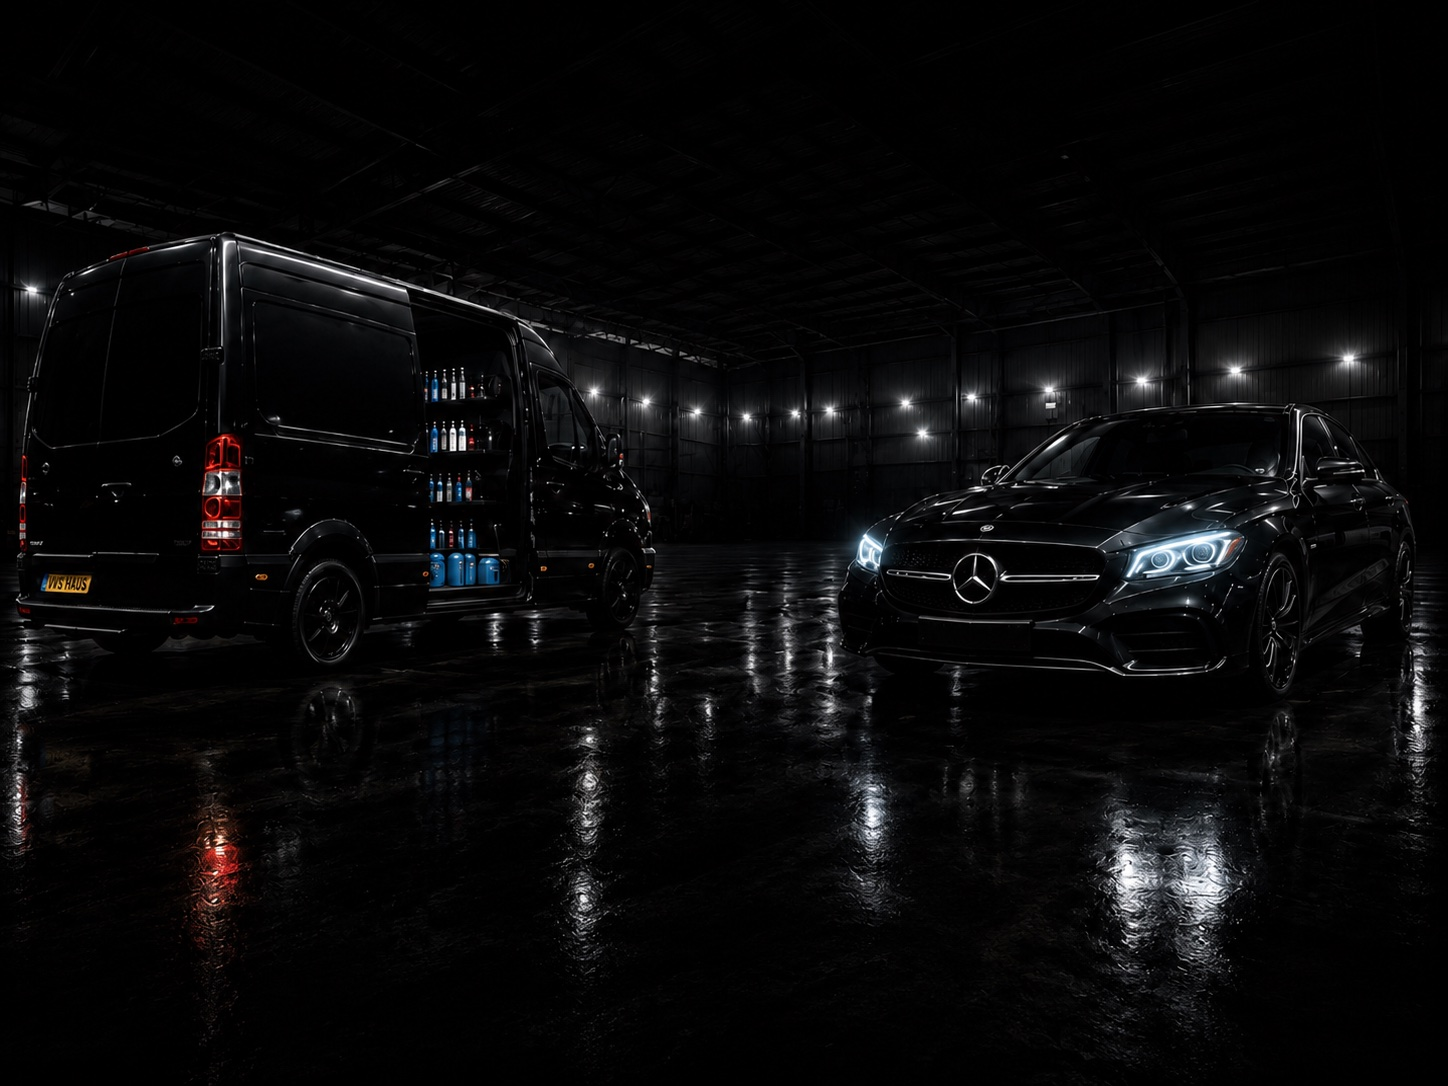
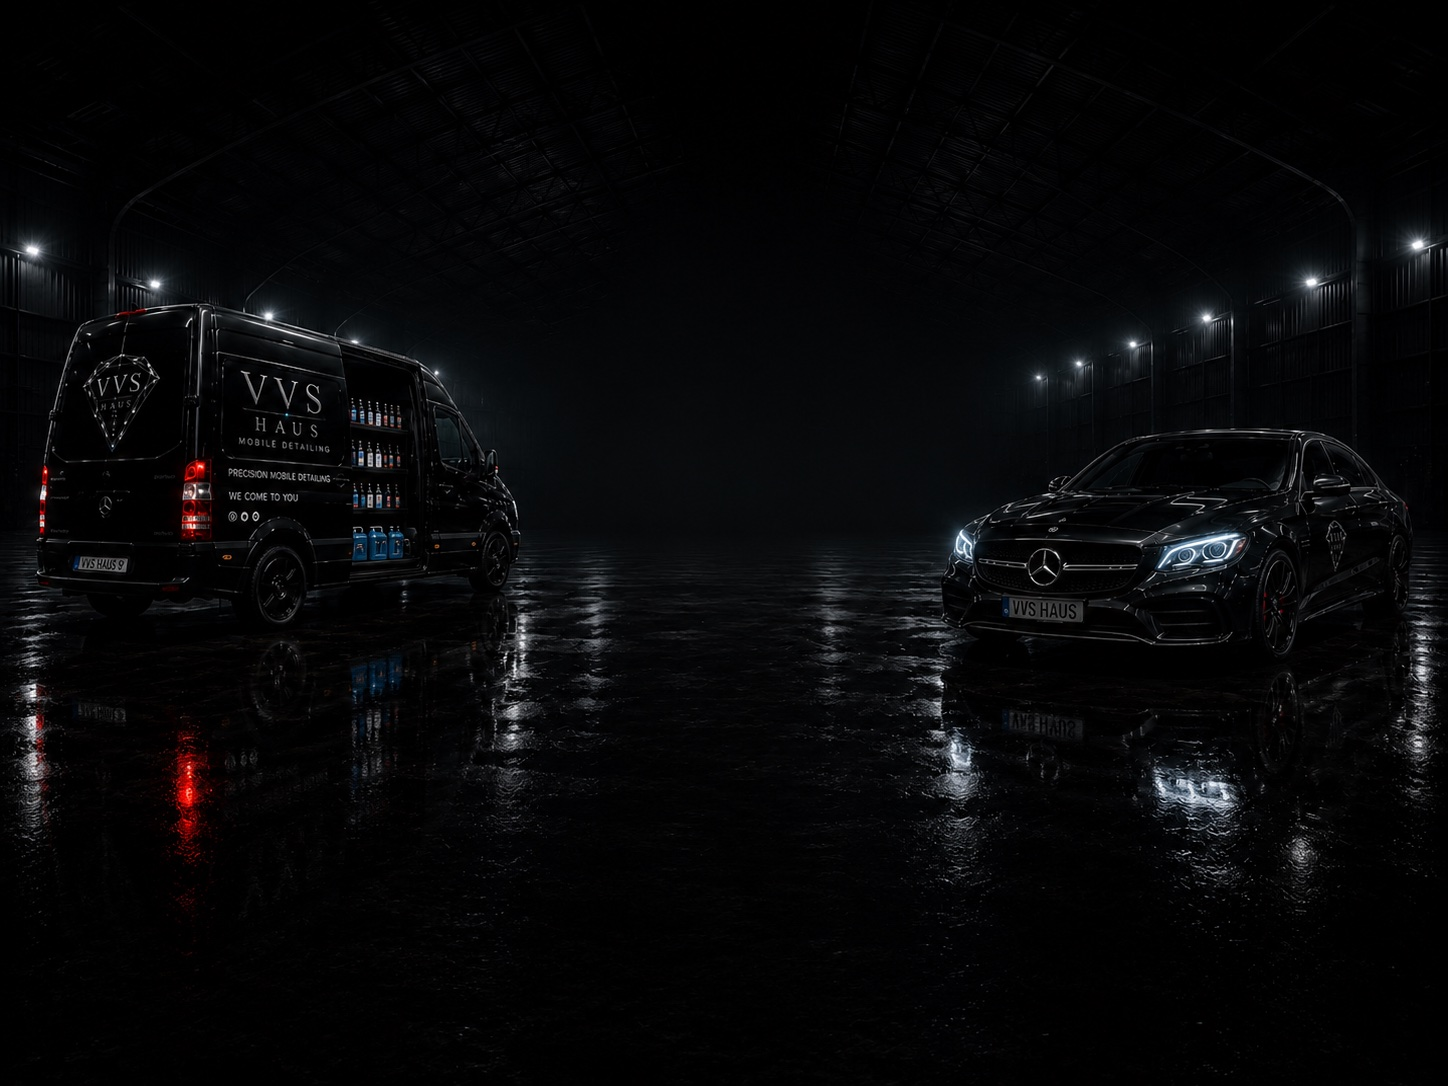
Build home page hero

diff --git a/src/pages/Home.jsx b/src/pages/Home.jsx
@@ -2,9 +2,8 @@ import { motion } from 'framer-motion'
 import { ChevronDown, ChevronRight, ShieldCheck, Sparkles, Truck, Wrench } from 'lucide-react'
 import { Link } from 'react-router-dom'
 
-const vanImage = '/assets/images/van-with-logo.jpg'
-const vehicleImage = '/assets/images/mercedes-back.jpg'
-const diamondLogo = '/assets/logos/logo-diamond-transparent.png'
+const heroBackground = '/assets/images/new-home-wallpaper.jpg'
+const heroLogo = '/assets/logos/logo.png'
 
 const featureStrip = [
   {
@@ -52,11 +51,19 @@ const item = {
 function Home() {
   return (
     <section className="relative left-1/2 h-svh min-h-[700px] w-screen -translate-x-1/2 overflow-hidden bg-[#050505] px-5 pb-4 pt-24 text-white sm:px-8 lg:min-h-0 lg:px-12">
-      <div className="absolute inset-0 bg-[linear-gradient(180deg,#050505_0%,#111111_46%,#050505_100%)]" />
-      <div className="absolute inset-0 bg-[radial-gradient(circle_at_50%_30%,rgba(0,217,255,0.12),transparent_17rem)]" />
-      <div className="absolute inset-0 bg-[linear-gradient(90deg,rgba(5,5,5,0.88)_0%,rgba(5,5,5,0.35)_28%,rgba(5,5,5,0.18)_50%,rgba(5,5,5,0.42)_72%,rgba(5,5,5,0.9)_100%)]" />
-      <div className="absolute inset-x-0 top-0 h-44 bg-gradient-to-b from-[#050505] to-transparent" />
-      <div className="absolute inset-x-0 bottom-0 h-64 bg-gradient-to-t from-[#050505] via-[#050505]/78 to-transparent" />
+      <motion.img
+        alt="VVS Haus cinematic mobile detailing background"
+        animate={{ opacity: 1, scale: 1.025 }}
+        className="absolute inset-0 h-full w-full object-cover object-[center_56%] brightness-[1.3] contrast-[1.08]"
+        initial={{ opacity: 0, scale: 1.06 }}
+        src={heroBackground}
+        transition={{ duration: 1.3, ease: 'easeOut' }}
+      />
+      <div className="absolute inset-0 bg-[linear-gradient(180deg,rgba(5,5,5,0.34)_0%,rgba(5,5,5,0.06)_34%,rgba(5,5,5,0.1)_60%,rgba(5,5,5,0.62)_100%)]" />
+      <div className="absolute inset-0 bg-[radial-gradient(ellipse_at_50%_31%,rgba(0,217,255,0.055),transparent_18rem)]" />
+      <div className="absolute inset-0 bg-[linear-gradient(90deg,rgba(5,5,5,0.38)_0%,rgba(5,5,5,0.08)_28%,rgba(5,5,5,0.04)_50%,rgba(5,5,5,0.09)_72%,rgba(5,5,5,0.44)_100%)]" />
+      <div className="absolute inset-x-0 top-0 h-44 bg-gradient-to-b from-[#050505]/70 to-transparent" />
+      <div className="absolute inset-x-0 bottom-0 h-64 bg-gradient-to-t from-[#050505]/82 via-[#050505]/42 to-transparent" />
       <motion.div
         aria-hidden="true"
         animate={{ x: ['-120%', '120%'], opacity: [0, 0.32, 0] }}
@@ -65,71 +72,47 @@ function Home() {
         transition={{ delay: 1.1, duration: 4.8, ease: 'easeInOut', repeat: Infinity, repeatDelay: 4 }}
       />
 
-      <motion.img
-        alt="VVS Haus branded mobile detailing van"
-        animate={{ opacity: 0.74, x: 0, scale: 1, y: [0, -5, 0] }}
-        className="absolute bottom-[8.6rem] left-[-9.5rem] hidden w-[46rem] max-w-none object-contain shadow-[0_34px_120px_rgba(0,0,0,0.7)] xl:block 2xl:left-[-4.5rem] 2xl:w-[52rem]"
-        initial={{ opacity: 0, x: -46, scale: 0.98 }}
-        src={vanImage}
-        transition={{
-          duration: 1.15,
-          ease: 'easeOut',
-          y: { delay: 1.2, duration: 8.5, ease: 'easeInOut', repeat: Infinity },
-        }}
-      />
-
-      <motion.img
-        alt="Premium Mercedes vehicle detailed by VVS Haus"
-        animate={{ opacity: 0.76, x: 0, scale: 1, y: [0, -4, 0] }}
-        className="absolute bottom-[8.6rem] right-[-10.5rem] hidden w-[47rem] max-w-none object-contain shadow-[0_34px_120px_rgba(0,0,0,0.72)] lg:block 2xl:right-[-4rem] 2xl:w-[53rem]"
-        initial={{ opacity: 0, x: 46, scale: 0.98 }}
-        src={vehicleImage}
-        transition={{
-          duration: 1.15,
-          ease: 'easeOut',
-          y: { delay: 1.45, duration: 7.8, ease: 'easeInOut', repeat: Infinity },
-        }}
-      />
-
       <motion.div
         animate="visible"
         className="relative z-10 mx-auto flex h-full max-w-[92rem] flex-col items-center justify-end text-center"
         initial="hidden"
         variants={container}
       >
-        <div className="flex w-full flex-1 flex-col items-center justify-center pb-1 pt-2 lg:pt-8">
+        <div className="flex w-full flex-1 flex-col items-center justify-center pb-1 pt-2 lg:mt-10 lg:pt-0">
           <motion.div
-            className="relative mb-0 flex h-[13.5rem] w-[13.5rem] items-center justify-center overflow-hidden sm:h-[18rem] sm:w-[18rem] lg:h-[23rem] lg:w-[23rem] 2xl:h-[25rem] 2xl:w-[25rem]"
+            className="relative -mb-6 flex h-[16.5rem] w-[16.5rem] items-center justify-center overflow-visible sm:-mb-9 sm:h-[23rem] sm:w-[23rem] lg:-mb-16 lg:h-[34rem] lg:w-[34rem] 2xl:-mb-20 2xl:h-[36rem] 2xl:w-[36rem]"
             variants={item}
           >
-            <motion.img
-              alt="VVS Haus diamond"
-              animate={{
-                filter: [
-                  'drop-shadow(0 0 18px rgba(0,217,255,0.7))',
-                  'drop-shadow(0 0 28px rgba(0,217,255,0.82))',
-                  'drop-shadow(0 0 18px rgba(0,217,255,0.7))',
-                ],
-                y: [0, -7, 0],
-              }}
-              className="relative h-full w-full object-contain drop-shadow-[0_0_18px_rgba(0,217,255,0.7)]"
-              src={diamondLogo}
-              transition={{
-                filter: { duration: 4.8, ease: 'easeInOut', repeat: Infinity },
-                y: { duration: 5.8, ease: 'easeInOut', repeat: Infinity },
-              }}
-            />
-            <motion.span
-              aria-hidden="true"
-              animate={{ opacity: [0, 1, 0, 0, 1, 0], x: ['-145%', '145%', '145%', '-145%', '-145%', '145%'] }}
-              className="pointer-events-none absolute inset-y-10 w-1/3 rotate-12 bg-gradient-to-r from-transparent via-white/35 to-transparent blur-sm"
-              initial={{ x: '-145%' }}
-              transition={{ delay: 1.5, duration: 6.8, ease: 'easeInOut', repeat: Infinity }}
-            />
+            <div className="relative h-full w-full translate-y-9 overflow-hidden sm:translate-y-12 lg:translate-y-16">
+              <motion.img
+                alt="VVS Haus diamond"
+                animate={{
+                  filter: [
+                    'drop-shadow(0 0 14px rgba(0,217,255,0.58))',
+                    'drop-shadow(0 0 22px rgba(0,217,255,0.72))',
+                    'drop-shadow(0 0 14px rgba(0,217,255,0.58))',
+                  ],
+                  y: [0, -7, 0],
+                }}
+                className="relative h-full w-full object-contain drop-shadow-[0_0_14px_rgba(0,217,255,0.58)]"
+                src={heroLogo}
+                transition={{
+                  filter: { duration: 4.8, ease: 'easeInOut', repeat: Infinity },
+                  y: { duration: 5.8, ease: 'easeInOut', repeat: Infinity },
+                }}
+              />
+              <motion.span
+                aria-hidden="true"
+                animate={{ opacity: [0, 1, 0, 0, 1, 0], x: ['-145%', '145%', '145%', '-145%', '-145%', '145%'] }}
+                className="pointer-events-none absolute inset-y-10 w-1/3 rotate-12 bg-gradient-to-r from-transparent via-white/35 to-transparent blur-sm"
+                initial={{ x: '-145%' }}
+                transition={{ delay: 1.5, duration: 6.8, ease: 'easeInOut', repeat: Infinity }}
+              />
+            </div>
           </motion.div>
 
           <motion.p
-            className="mb-2 font-['Orbitron'] text-sm uppercase tracking-[0.58em] text-white/86 sm:text-base lg:text-lg"
+            className="mb-2 font-['Orbitron'] text-base uppercase tracking-[0.58em] text-white/86 sm:text-lg lg:text-2xl"
             variants={item}
           >
             Precision

diff --git a/src/components/layout/Navbar.jsx b/src/components/layout/Navbar.jsx
@@ -2,7 +2,7 @@ import { ChevronRight, Menu, X } from 'lucide-react'
 import { useState } from 'react'
 import { Link, NavLink } from 'react-router-dom'
 
-const logoSrc = '/assets/logos/logo-transparent.png'
+const logoSrc = '/assets/logos/logo.png'
 
 const navLinks = [
   { label: 'Home', to: '/' },
@@ -21,14 +21,14 @@ function Navbar() {
 
   const getLinkClass = ({ isActive }) =>
     [
-      'relative px-1 py-2 text-[11px] font-semibold uppercase tracking-[0.24em] transition duration-300 ease-out',
+      'relative px-1 py-2 text-sm font-semibold uppercase tracking-[0.18em] transition duration-300 ease-out',
       isActive
         ? 'text-white after:absolute after:inset-x-1 after:-bottom-1 after:h-px after:bg-cyan-300 after:shadow-[0_0_14px_rgba(0,217,255,0.75)]'
         : 'text-white/62 hover:text-cyan-200',
     ].join(' ')
 
   return (
-    <header className="fixed inset-x-0 top-0 z-40 px-5 py-5 sm:px-8 lg:px-12">
+    <header className="fixed inset-x-0 top-0 z-40 px-5 py-5 sm:px-8 lg:px-16 2xl:px-20">
       <div className="mx-auto grid max-w-[92rem] grid-cols-[auto_1fr_auto] items-center gap-4">
         <Link
           aria-label="VVS Haus home"
@@ -45,7 +45,7 @@ function Navbar() {
 
         <nav
           aria-label="Main navigation"
-          className="hidden items-center justify-center gap-12 lg:flex"
+          className="hidden items-center justify-center gap-9 xl:gap-10 lg:flex"
         >
           {navLinks.map((link) => (
             <NavLink className={getLinkClass} key={link.to} to={link.to}>

diff --git a/src/components/layout/Footer.jsx b/src/components/layout/Footer.jsx
@@ -5,7 +5,7 @@ function Footer() {
         <img
           alt="VVS Haus"
           className="h-10 w-auto object-contain sm:h-12"
-          src="/assets/logos/logo-transparent.png"
+          src="/assets/logos/logo.png"
         />
         <p className="text-xs font-semibold uppercase tracking-[0.24em] text-white/45">
           VVS Haus footer placeholder

diff --git a/src/components/sections/LoadingScreen.jsx b/src/components/sections/LoadingScreen.jsx
@@ -1,7 +1,7 @@
 import { AnimatePresence, motion } from 'framer-motion'
 import { useEffect, useState } from 'react'
 
-const logoSrc = '/assets/logos/logo-diamond-transparent.png'
+const logoSrc = '/assets/logos/logo.png'
 
 function LoadingScreen() {
   const [isVisible, setIsVisible] = useState(true)
